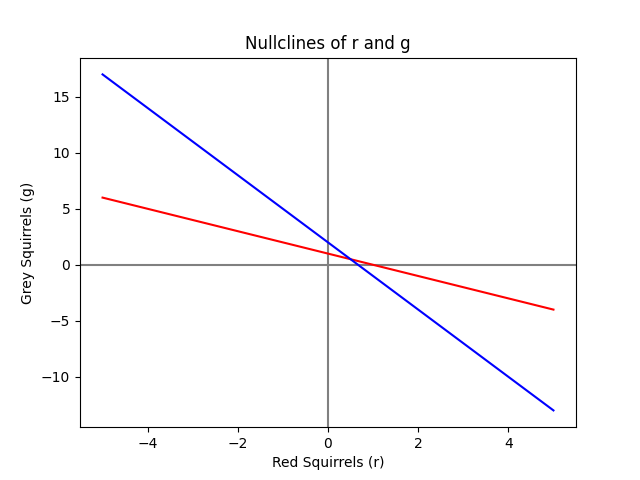
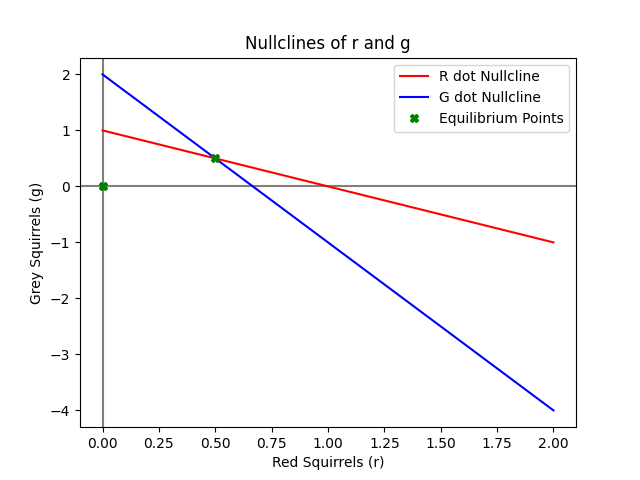
Cleaned up graph and added equlibium points

diff --git a/Question_4.py b/Question_4.py
@@ -28,22 +28,26 @@ def null_g(g):
 
 #Plotting nuclides with r as x-axis and g as y-axis
 
-Nr = np.linspace(-5,5,500)
+Nr = np.linspace(0,2,500)
 Ng = []
 index = 0
 for count in Nr:
     Ng.append(null_r(Nr[index]))
     index = index + 1
 
-plt.plot(Nr,Ng,'r')
+plt.plot(Nr,Ng,'r',label="R dot Nullcline")
 
-Nr = np.linspace(-5,5,500)
+Nr = np.linspace(0,2,500)
 Ng = []
 index = 0
 for count in Nr:
     Ng.append(null_g(Nr[index]))
     index = index + 1
 
-plt.plot(Nr,Ng,'b')
+plt.plot(Nr,Ng,'b',label="G dot Nullcline")
 
+plt.plot(0.5,0.5,'gX',label="Equilibrium Points")
+plt.plot(0,0,'gX')
+
+plt.legend()
 plt.savefig("./Nullclines.png")
